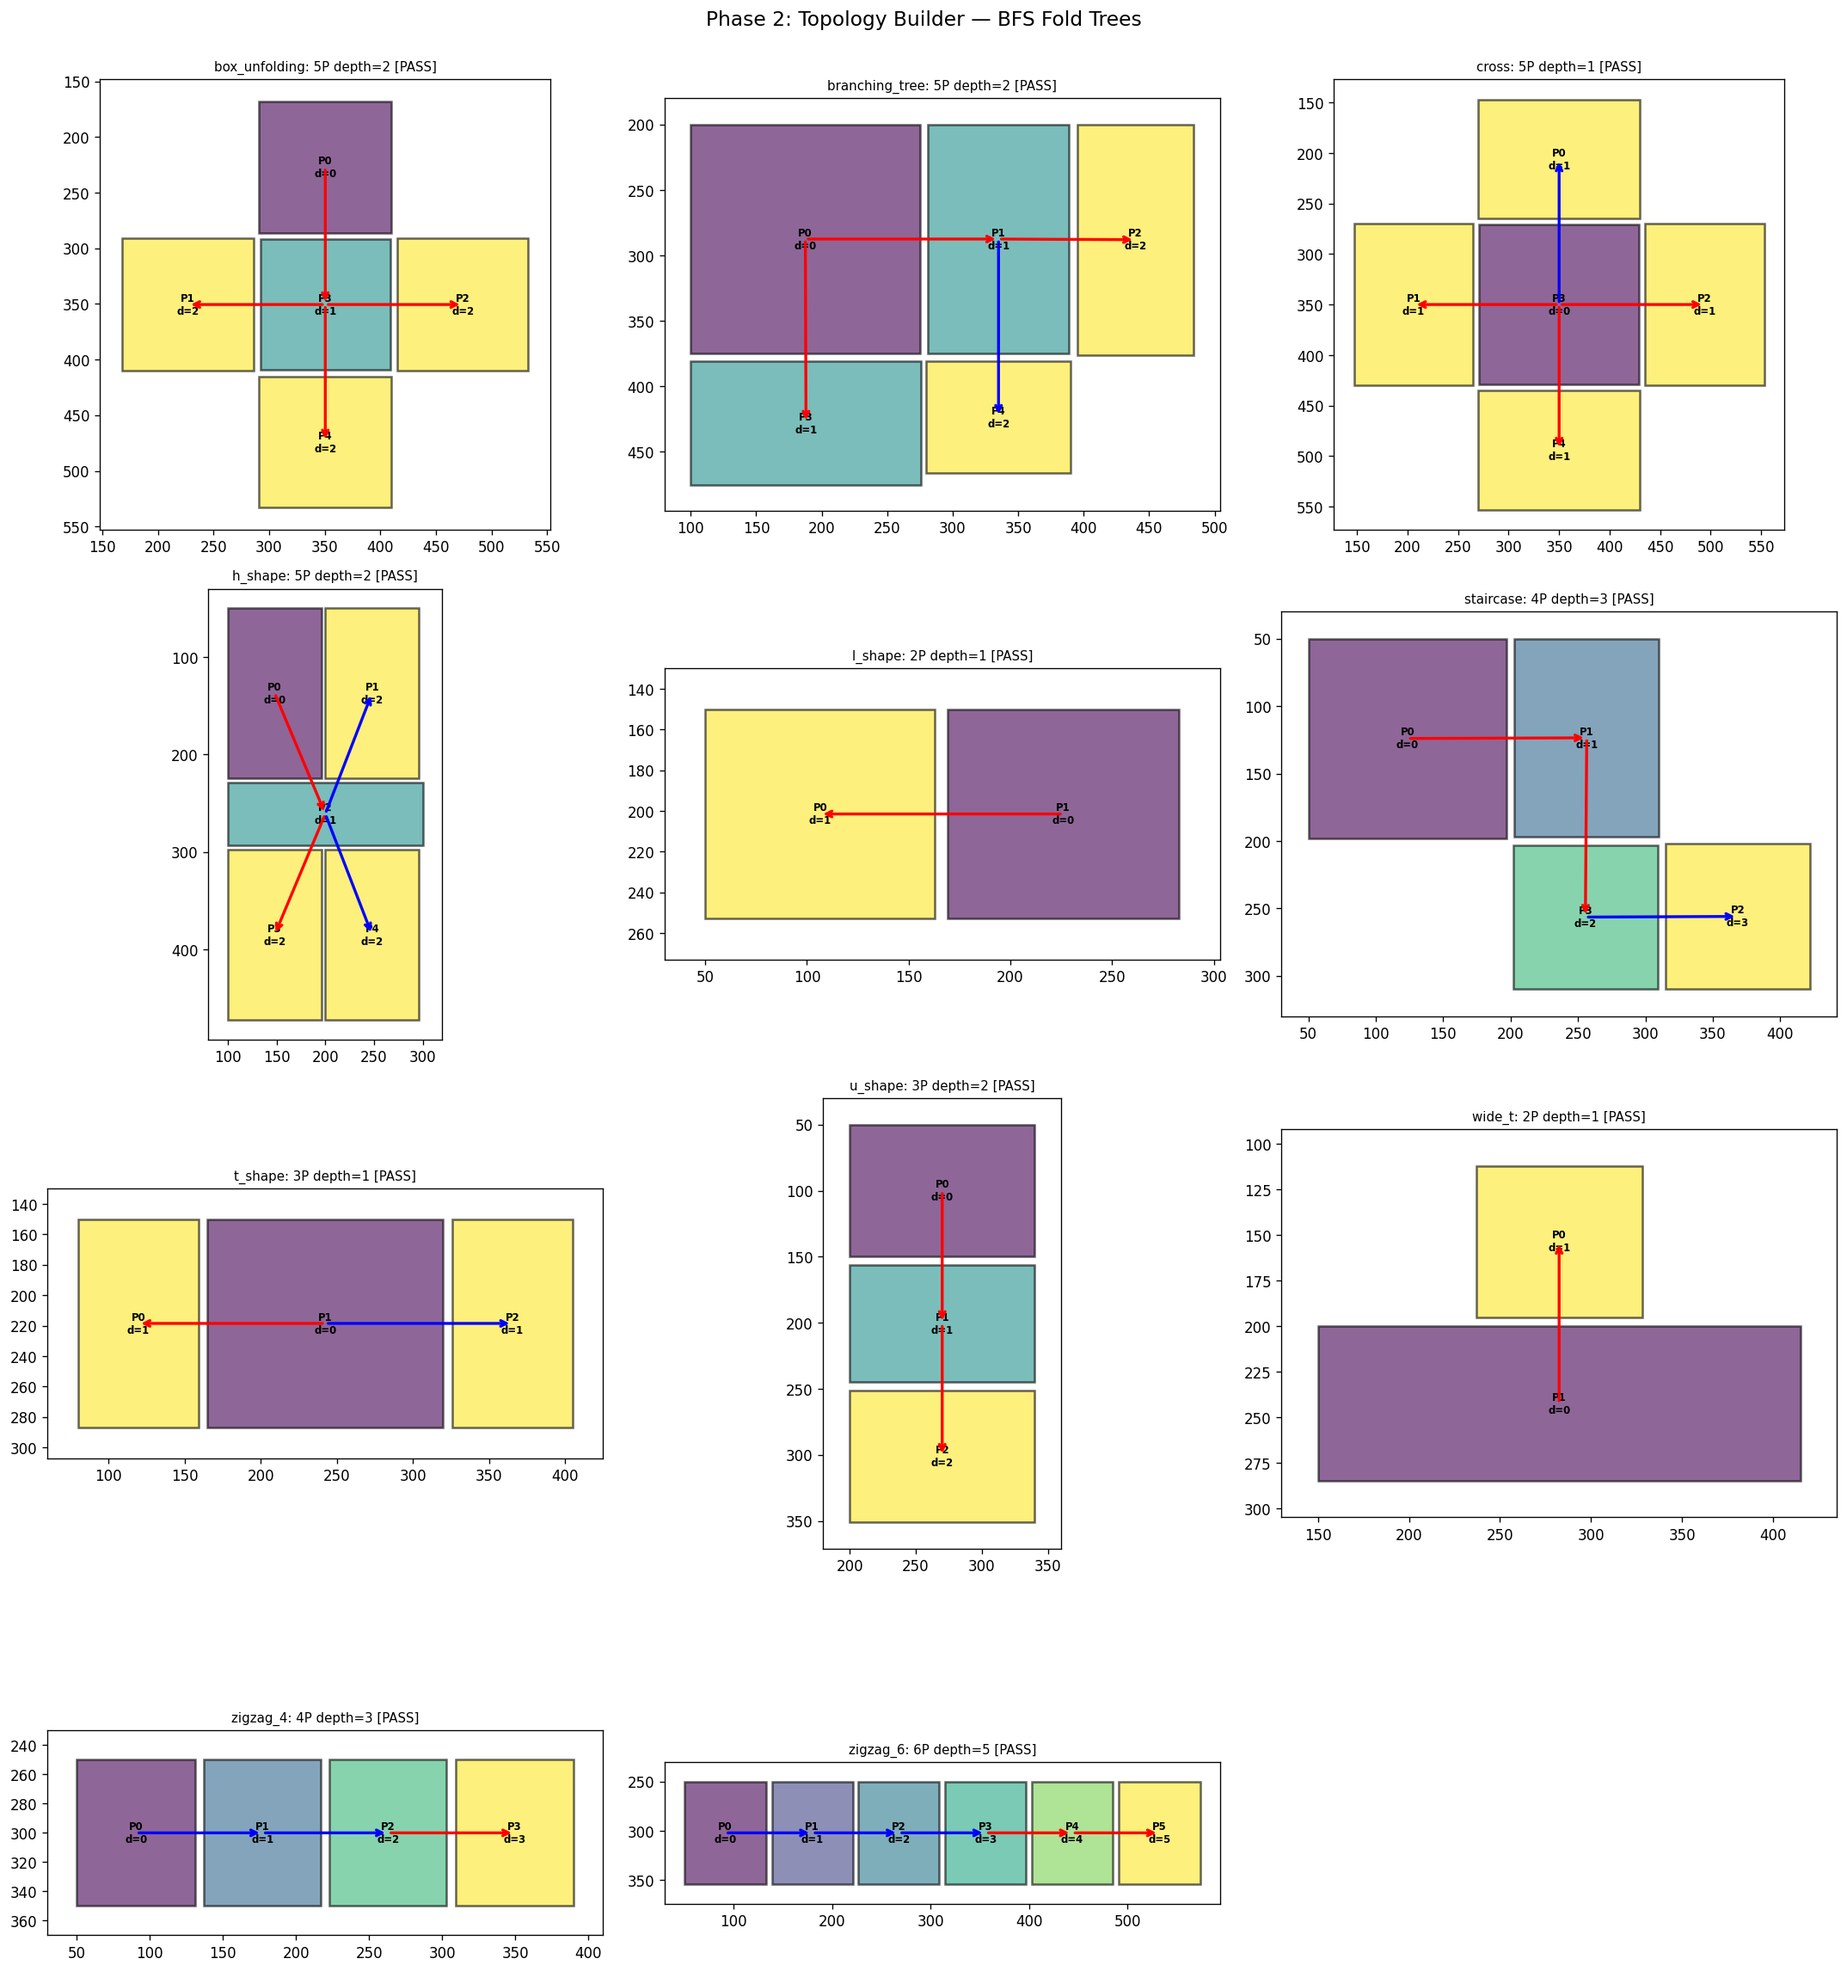
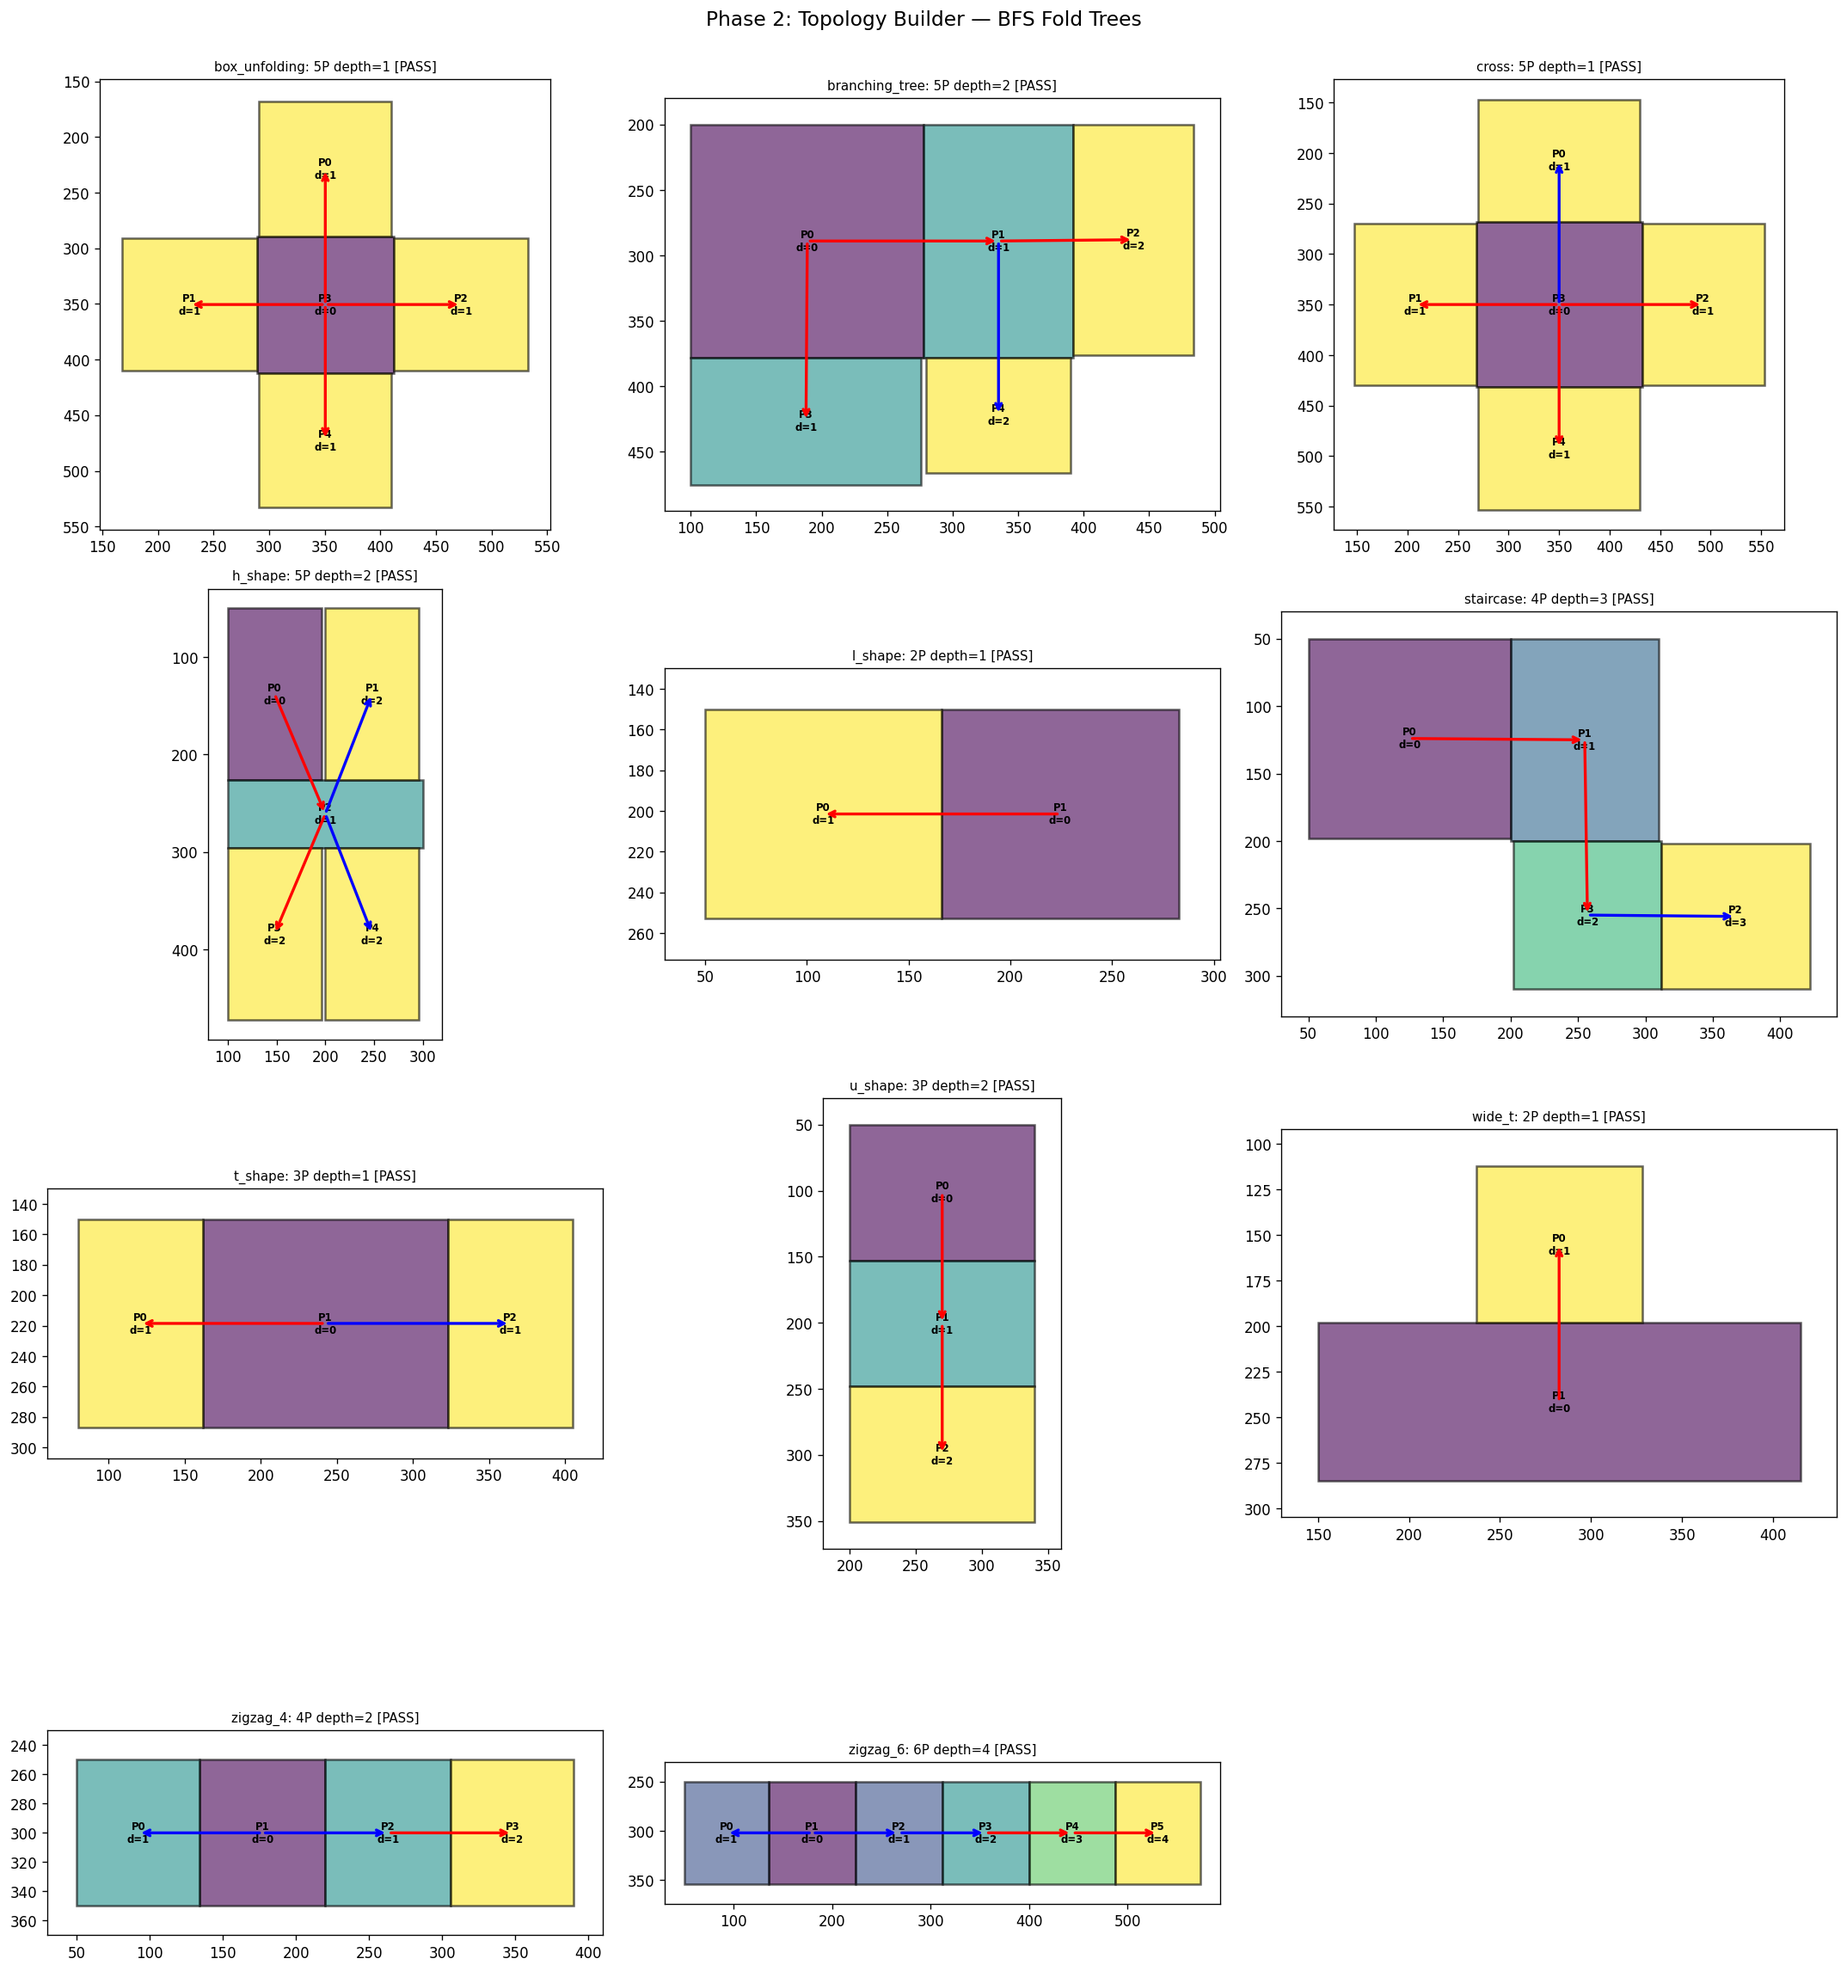
Fresh Phase 2-4 results with panel snap fix (2026-04-23 KST)

diff --git a/README.md b/README.md
@@ -6,55 +6,18 @@ This repo is used to share result images from Claude Code.
 
 ---
 
-# Origami-Gemini-Gen — Full Pipeline (2026-04-23 KST)
+# Origami-Gemini-Gen — Panel Snap Fix (2026-04-23 KST)
 
-Sharp 90° folds. No fillets. Panels snap together at fold edges with shared vertices.
-
-## Phase 0: Test Image Generator
-11 diverse 전개도 test cases with bump/hole overlays.
-![phase0_overview](phase0_overview.png)
-
-## Phase 1: Image Parser
-Panel extraction, fold lines (red=+z, blue=-z), color masks (Y/G/P).
-![phase1_results](phase1_results.png)
+Panels snapped to fold_line.position in Phase 1 (zero-gap). Connected mesh confirmed.
 
 ## Phase 2: Topology Builder
-BFS fold tree. Root = largest panel. Color = BFS depth.
+BFS fold tree. Panels now touch at fold lines (no pixel gap).
 ![phase2_results](phase2_results.png)
 
 ## Phase 3: 3D Folder
-Cascading 90° folds. No fillet gap — panels touch at fold edges.
+Cascading 90° folds. Panels share edges at fold positions.
 ![phase3_results](phase3_results.png)
 
-## Phase 4: Mesh Generator (FIXED — 2026-04-23 00:30 KST)
-Fold-edge snapping fix: panels snap to fold_line.position, shared vertex spacing.
-Finer mesh (resolution=2.0). Internal shared edges confirmed across all 11 cases.
+## Phase 4: Mesh Generator
+Finer mesh (res=2.0). Shared vertices at fold edges. Red = boundary only.
 ![phase4_results](phase4_results.png)
-
-## Phase 5: Free Edge QA
-Plot-only. Red = free (boundary) edges. No stitching.
-![phase5_results](phase5_results.png)
-
-### L-Shape (3D + Side)
-![phase5_l_shape](phase5_l_shape.png)
-
-### T-Shape (3D + Side)
-![phase5_t_shape](phase5_t_shape.png)
-
-### Cross (3D + Side)
-![phase5_cross](phase5_cross.png)
-
-## Phase 6: Bump & Cut
-Yellow = +z bump, Green = -z bump, Purple = hole cut. Smoothstep ramp.
-
-### Overview: Before vs After (8 cases)
-![phase6_results](phase6_results.png)
-
-### L-Shape Detail
-![phase6_l_shape](phase6_l_shape.png)
-
-### T-Shape Detail
-![phase6_t_shape](phase6_t_shape.png)
-
-### Cross Detail
-![phase6_cross](phase6_cross.png)
